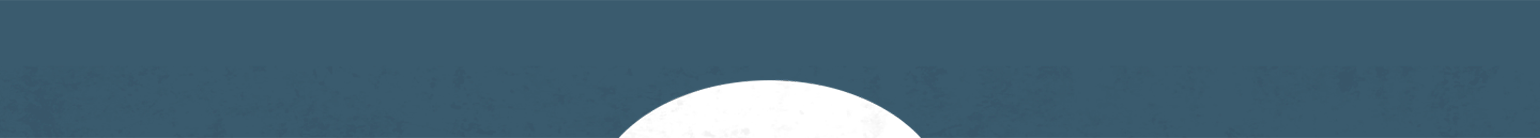
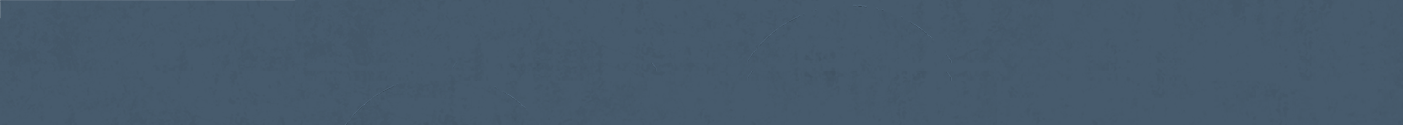
De sidste ændringer til færdig hjemmeside.

Changed region(s): [[0.3984, 0.576, 0.613, 1.0]]

diff --git a/style.css b/style.css
@@ -24,20 +24,22 @@ body {
  .logo-bar {
   background-image: url(billeder/topbar-m.png);
   background-repeat: no-repeat;
-  background-size: contain;
+  background-size: cover;
     width: 100%;
-    height: 225px;
-   position: relative;
-   z-index: 77;
+    height: 65px;
+  position: relative;
+  z-index: 22;
   }
 
  
 .logo {
   position: absolute;
-  width: 23%;
- top: 52px;
+  width: 26%;
+ margin-top: -6%;
+  top: 0%;
     left: 37.5%;
-    
+    position: relative;
+    z-index: 47;
    
 }
 
@@ -60,11 +62,11 @@ body {
   }
 
   .telefoni {
-    margin:15px 5px auto 5px;
+    margin:25px 5px auto 5px;
     font-family: 'Barlow', sans-serif;
     text-decoration: none;
     color: #c5bfbe;
-    font-size: 11px;
+    font-size: 13px;
     font-weight: 500;
   }
 
@@ -82,15 +84,15 @@ body {
 
   .icon {
     display: inline-block;
-    width: 22px;
-    height: 22px;
+    width: 28px;
+    height: 28px;
     background-size: contain;
     background-repeat: no-repeat;
   }
   
   .icon-facebook {
     display:block;
-    margin:10px 5px auto 5px;
+    margin:20px 5px auto 5px;
     cursor: pointer;
     background-image: url(billeder/facebook.png);
   }
@@ -102,7 +104,7 @@ body {
 
   .icon-vline {
     display:block;
-    margin:10px 11px auto 1px;
+    margin:23px 11px auto 1px;
     cursor: pointer;
     background-image: url(billeder/V-LINE.png);
     height: 23px;
@@ -110,14 +112,14 @@ body {
 
   .icon-bænk {
     display:block;
-    margin:15px 10px auto -22px;
+    margin:25px 10px auto -30px;
     cursor: pointer;
     background-image: url(billeder/baenk.png);
   }
 
   .icon-telefon {
     display:block;
-    margin:10px 5px auto 5px;
+    margin:20px 5px auto 5px;
     cursor: pointer;
     background-image: url(billeder/telefon.png);
   }
@@ -139,6 +141,26 @@ hr.streg {
 }
 
 
+.hvid {
+  background-color: white;
+  height: 15px;
+  position: relative;
+  z-index: 5;
+}
+
+.streg {
+margin-top: -20px;
+  height: 10px;
+  background-color: white;
+  position: relative;
+  z-index: 7;
+}
+
+hr.new1 {
+ margin-top: 15px!important;
+  border-top: 1px solid #c5bfbe;
+  background-color: white;
+}
 
 
   .txtpris {
@@ -196,7 +218,7 @@ hr.streg {
   display: block;
   margin: 0 auto;
   margin-right: 5%;
-  margin-top: -80px;
+  margin-top: 20px;
   padding-bottom: 50px;
   width: 22%;
 }
@@ -383,17 +405,18 @@ letter-spacing: 2px;
  
     width: 100%;
     height: 70px;
-   position: relative;
-   z-index: 77;
+  
   }
 
  
 .logo {
     position: absolute;
   width: 17%;
+  margin-top: -50px;
  top: 0.7%;
     left: 41%;
-   
+   position: relative;
+   z-index: 33;
 }
 
 
@@ -492,7 +515,13 @@ hr.streg {
     position: relative;
 }
 
-
+hr {
+  background-color: white;
+  margin-block-start: 0;
+    margin-block-end: 0;
+    margin-inline-start: 0;
+    margin-inline-end: 0;
+}
 
 
 .txtpris {
@@ -562,7 +591,26 @@ hr.streg {
 
 }
 
+.hvid {
+  background-color: white;
+  height: 20px;
+  position: relative;
+  z-index: 5;
+}
 
+.streg {
+margin-top: -20px;
+  height: 15px;
+  background-color: white;
+  position: relative;
+  z-index: 7;
+}
+
+hr.new1 {
+ margin-top: 15px!important;
+  border-top: 1px solid #c5bfbe;
+  background-color: white;
+}
 
 
   /* Cirkel billeder på siden */
@@ -571,7 +619,7 @@ hr.streg {
     display: block;
     margin: 0 auto;
     margin-right: 15%;
-    margin-top: 230px;
+    margin-top: 30px;
     width: 12%;
     padding-bottom: 0px;
 }

diff --git a/index.html b/index.html
@@ -38,11 +38,14 @@
     </div>
 
   </div>
+<div class="hvid"></div>
+
+<div class="streg">
+  <hr class="new1">
+</div>
+  <img class="logo" src="billeder/LOGO-demo.png" draggable="false" alt="Mike´s Diner Logo">
 
 
-
-
-  <img class="logo" src="billeder/LOGO.png" draggable="false" alt="Mike´s Diner Logo">
   <img class="circleimg" src="billeder/udbringning.png" draggable="false" alt="udbringning">
 
 
